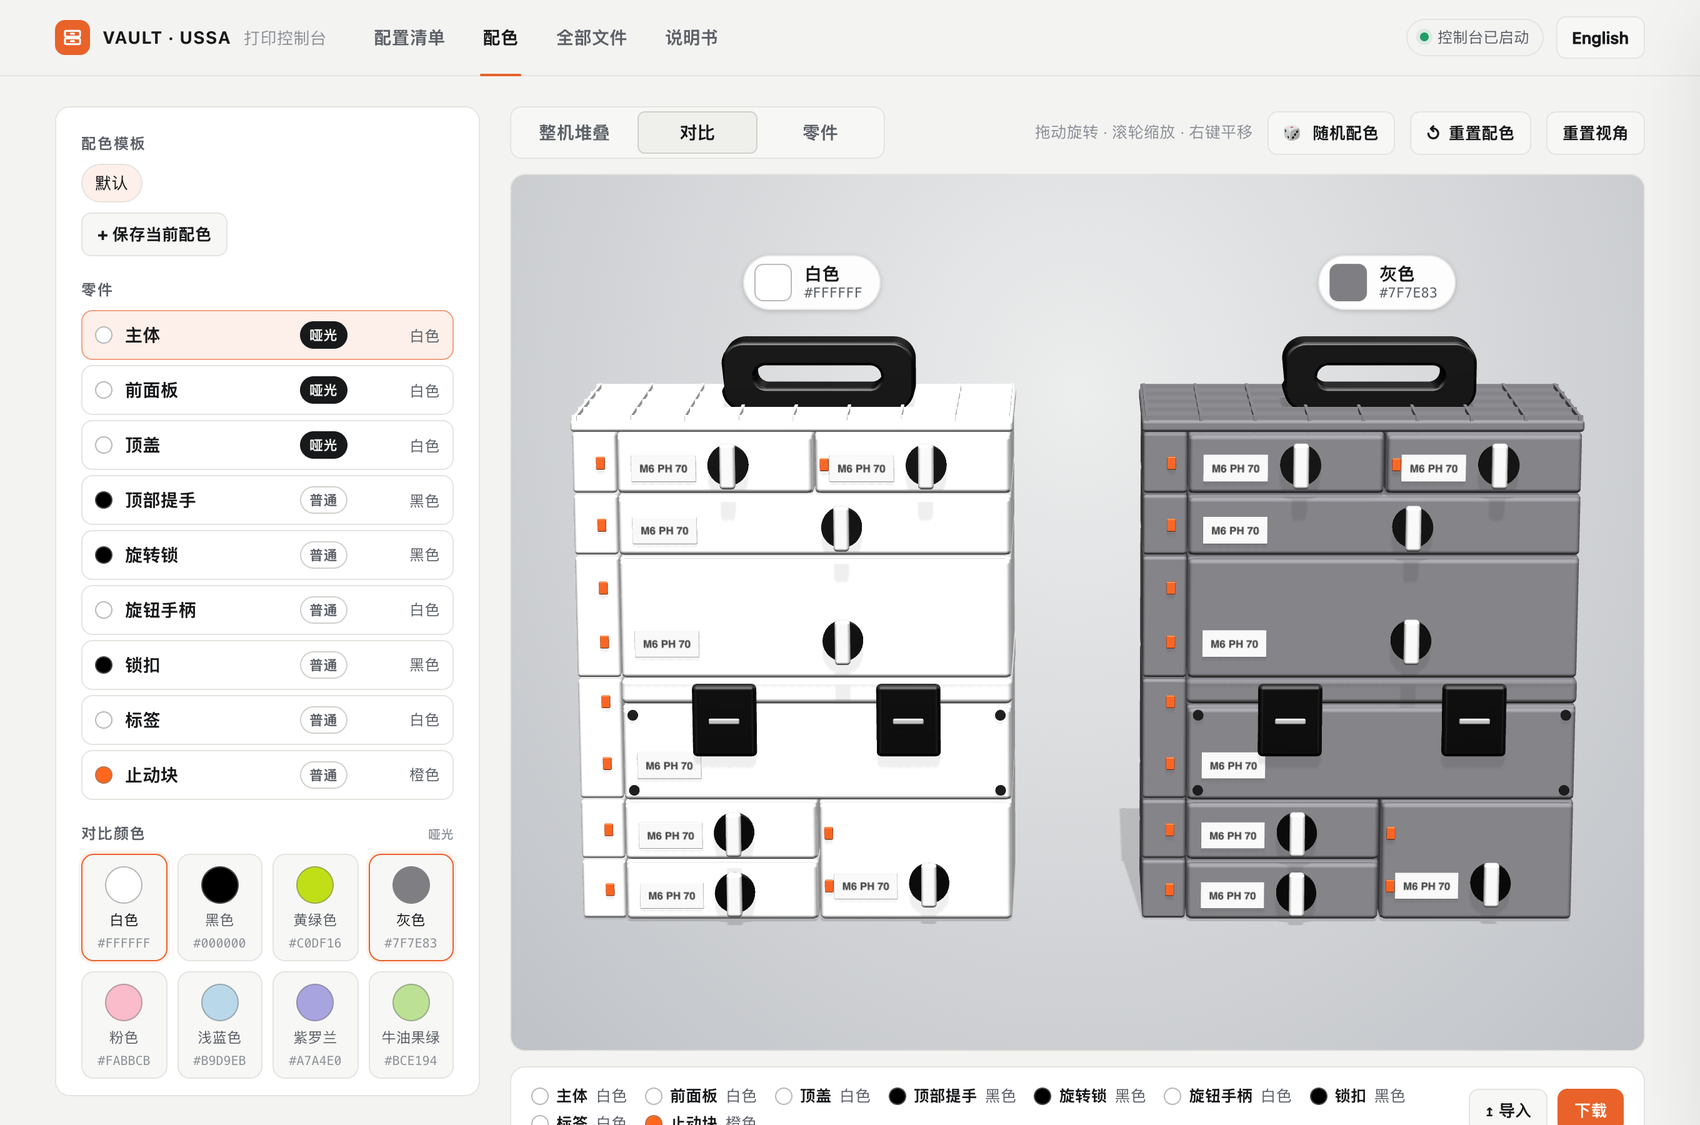
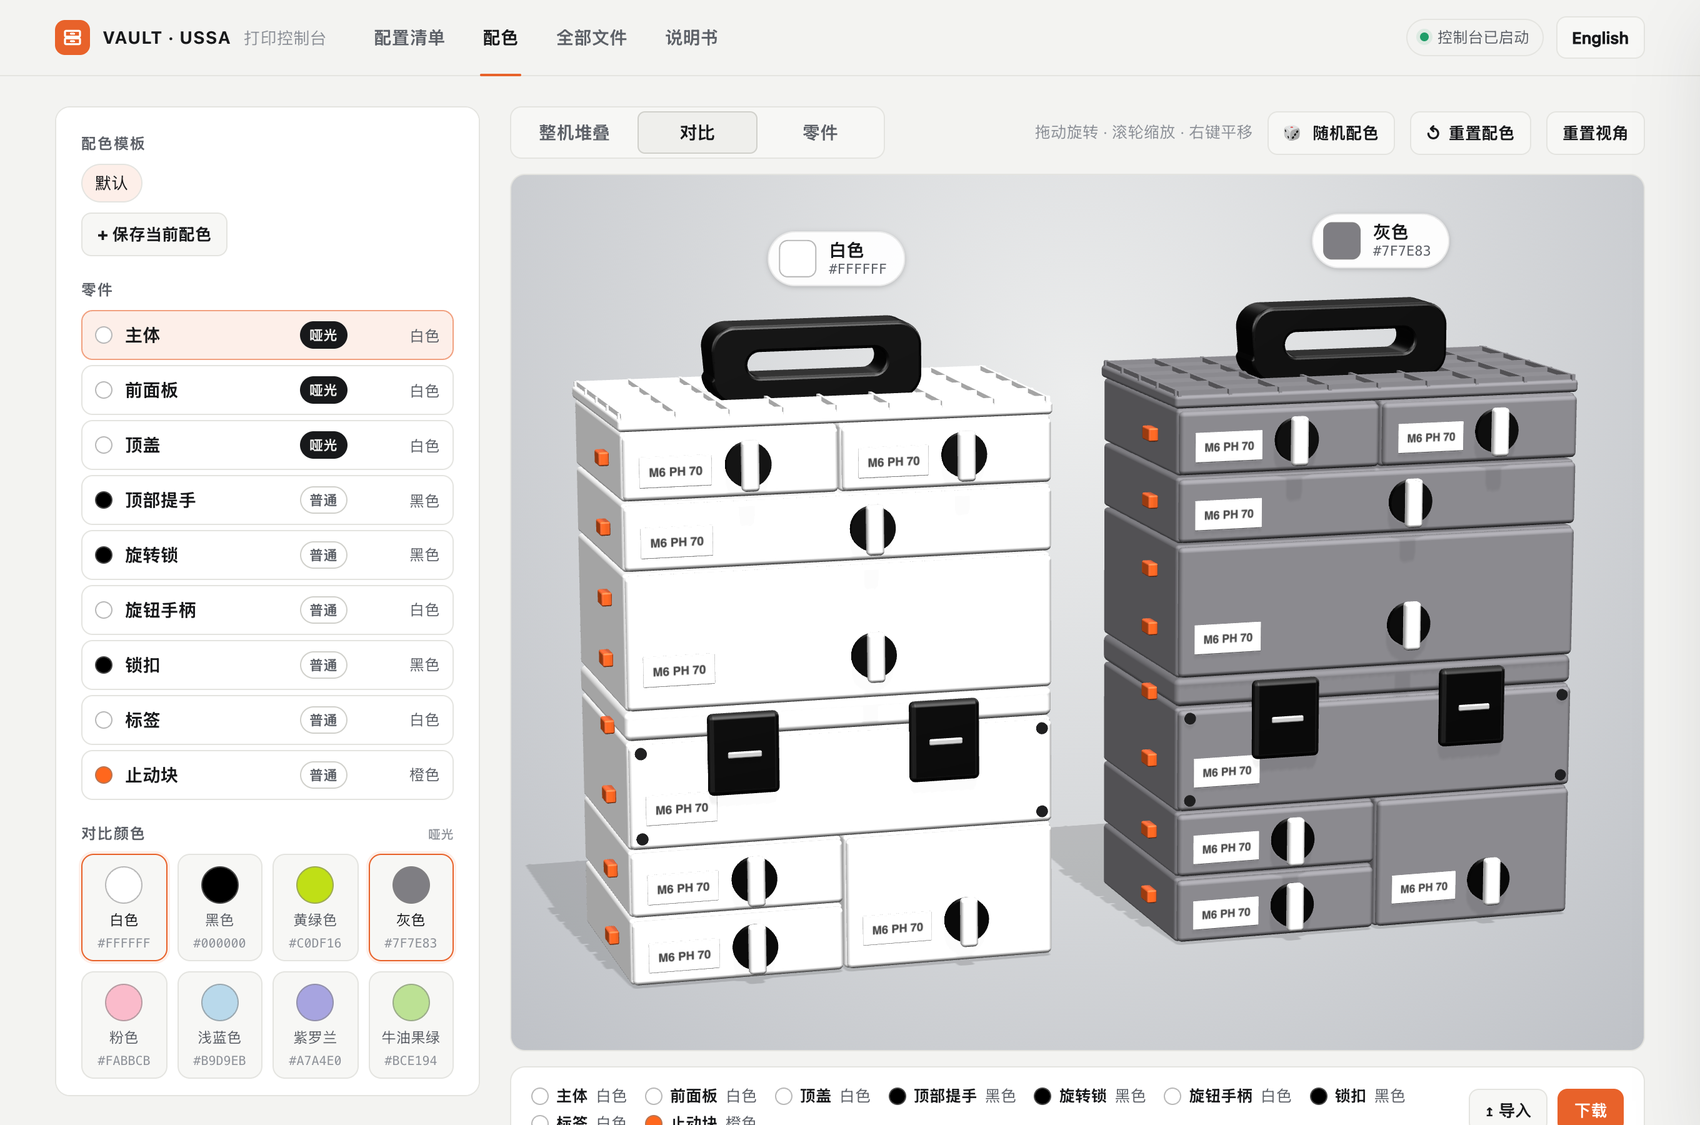
Runner stoppers on the left side wall of each box; camera turned slightly left; fill light

Changed region(s): [[0.3118, 0.1867, 0.9353, 0.9022]]

diff --git a/index.html b/index.html
@@ -1597,6 +1597,9 @@ async function makeColorEngine() {
   sun.shadow.bias = -0.0006;
   sun.shadow.radius = 3;
   scene.add(sun);
+  const fill = new THREE.DirectionalLight(0xffffff, 0.75);   // soft light from the left so side walls don't go dark
+  fill.position.set(-700, 260, 380);
+  scene.add(fill);
   const floor = new THREE.Mesh(new THREE.PlaneGeometry(6000, 3000), new THREE.ShadowMaterial({ opacity: 0.14 }));
   floor.rotation.x = -Math.PI / 2;
   floor.position.y = -0.5;
@@ -1638,7 +1641,7 @@ const colorMaterial = (THREE, finish, hex) => finish === 'basic'
 
 /* --- Stack: a simplified tower of drawers and a sustainer, built from plain shapes (no STL files needed). --- */
 // Same size and combination as the reference photo: S1F + S1F / L1F / L2F / sustainer L2F / (S1F over S1F) + S2F, with roof and handle.
-const STACK = { S: 164.8, L: 329.6, F1: 52.5, F2: 105, DEPTH: 190, SPINE: 36.7, LID: 22 };
+const STACK = { S: 164.8, L: 329.6, F1: 52.5, F2: 105, DEPTH: 190, SPINE: 0, LID: 22 };
 function stackUnits() {
   const { S, L, F1, F2 } = STACK;
   return [
@@ -1691,12 +1694,10 @@ function buildTower(e, hexOf) {
   };
   for (const u of stackUnits()) {
     const { cx, w, y, h } = u;
-    const leftmost = cx - w / 2 === -L / 2;
-    if (leftmost) add(rb(SPINE, h - 1.5, DEPTH * 0.8, 3), mat('body'), -L / 2 - SPINE / 2, y + h / 2, -DEPTH * 0.4, 'body');   // module side flange
-    // Every box has its own runner stopper(s) at its left edge: one per 1F, two per 2F (heights measured from the reference photo).
-    // The far-left boxes show them on the flange, the others just inside the left edge of their front.
-    for (const f of h < 60 ? [0.5] : u.kind === 'sustainer' ? [0.81, 0.3] : [0.74, 0.3]) {
-      add(rb(7.5, 11, 2.4, 1.5), mat('stopper'), leftmost ? -L / 2 - 0.36 * SPINE : cx - w / 2 + 9, y + h * f, leftmost ? 0.9 : 8.7, 'stopper');
+    // Runner stoppers lock the drawer on its rail. They sit on the box's left side wall, about a third of the way back from the front:
+    // one per 1F, two per 2F (heights measured from the reference photo). Only the stack's left wall is visible, so only those boxes get them.
+    if (cx - w / 2 === -L / 2) {
+      for (const f of h < 60 ? [0.5] : u.kind === 'sustainer' ? [0.81, 0.3] : [0.74, 0.3]) add(rb(8, 10.5, 18, 1.5), mat('stopper'), -L / 2 - 3.4, y + h * f, -0.28 * DEPTH, 'stopper');
     }
     if (u.kind === 'drawer') {
       add(rb(w - 1.5, h - 1.5, DEPTH, 3), mat('body'), cx, y + h / 2, -DEPTH / 2, 'body');
@@ -1813,7 +1814,7 @@ async function rebuildColors() {
   e.camera.updateProjectionMatrix();
   const vfov = THREE.MathUtils.degToRad(e.camera.fov), hfov = 2 * Math.atan(Math.tan(vfov / 2) * e.camera.aspect);
   const front = mode !== 'parts';
-  const dir = front ? new THREE.Vector3(0, 0.2, 1) : new THREE.Vector3(0.55, 0.55, 1);
+  const dir = front ? new THREE.Vector3(-0.3, 0.2, 1) : new THREE.Vector3(0.55, 0.55, 1);
   const dist = Math.max((size.y / 2) / Math.tan(vfov / 2), (size.x / 2) / Math.tan(hfov / 2)) * (front ? 1.12 : 1.05) + size.z / 2;
   e.controls.target.copy(center).add(front ? new THREE.Vector3(0, 6, 0) : new THREE.Vector3());
   e.camera.position.copy(e.controls.target).add(dir.normalize().multiplyScalar(dist));

diff --git a/README.md b/README.md
@@ -44,7 +44,7 @@ The rules live in the `material()` function in `index.html`, so you can adjust t
 
 ![Colors tab: the stack view](docs/colors-stack-en.png)
 
-Try filament colors on a rendered VAULT tower before you print. The tower is a simplified model built from plain shapes, so it works without any STL files, and it uses the same size and combination as the reference photo (S + S, L 1F, L 2F, sustainer, S 1F over S 1F beside S 2F, with grid roof and handle), seen front-on.
+Try filament colors on a rendered VAULT tower before you print. The tower is a simplified model built from plain shapes, so it works without any STL files, and it uses the same size and combination as the reference photo (S + S, L 1F, L 2F, sustainer, S 1F over S 1F beside S 2F, with grid roof and handle), seen front-on and turned slightly to the left, so the left side wall (where the runner stoppers are) shows.
 
 - **Matte palette (8):** White, Black, Lime, Grey, Pink, Light blue, Violet, Avocado. **Basic palette (13):** Orange, Red, Yellow, Green, Blue, Dark Blue, White, Beige, Black, Brown, Grey, Blue Grey, Dark Green. A part gets the palette that matches its finish tag.
 - **Nine colorable parts:** Body, Facade, Roof (Matte); Top handle, Key lock, Key cap, Lock latch, Label, Runner stopper (Basic). Pick a part in the list, or click it in the 3D view (hover shows its name), then pick a color.
